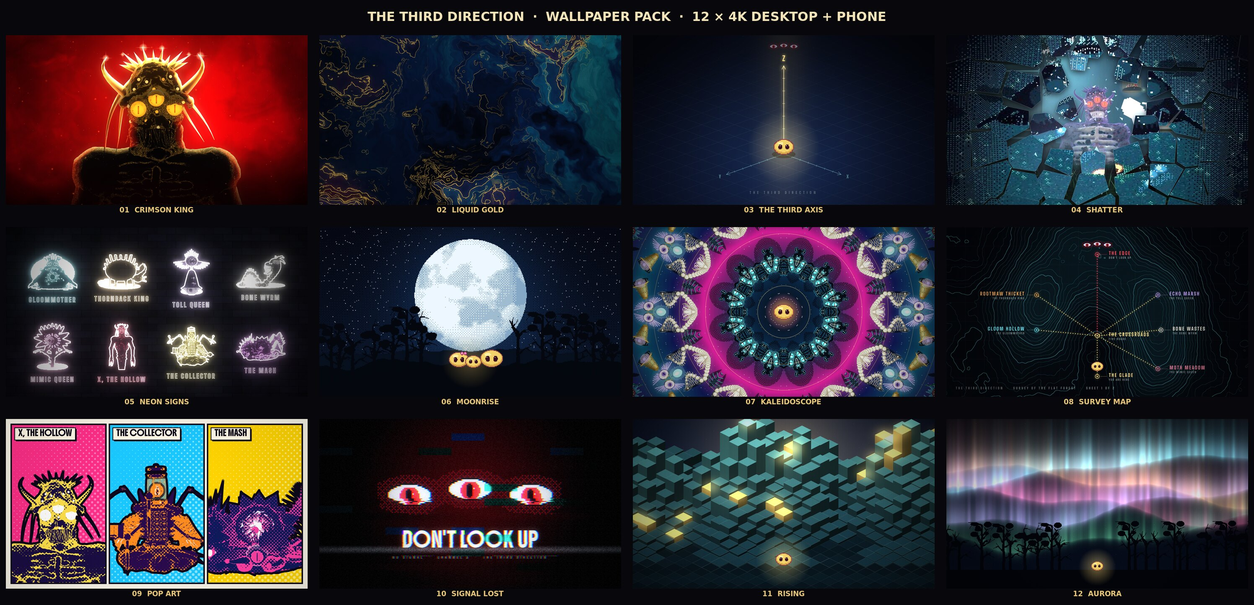
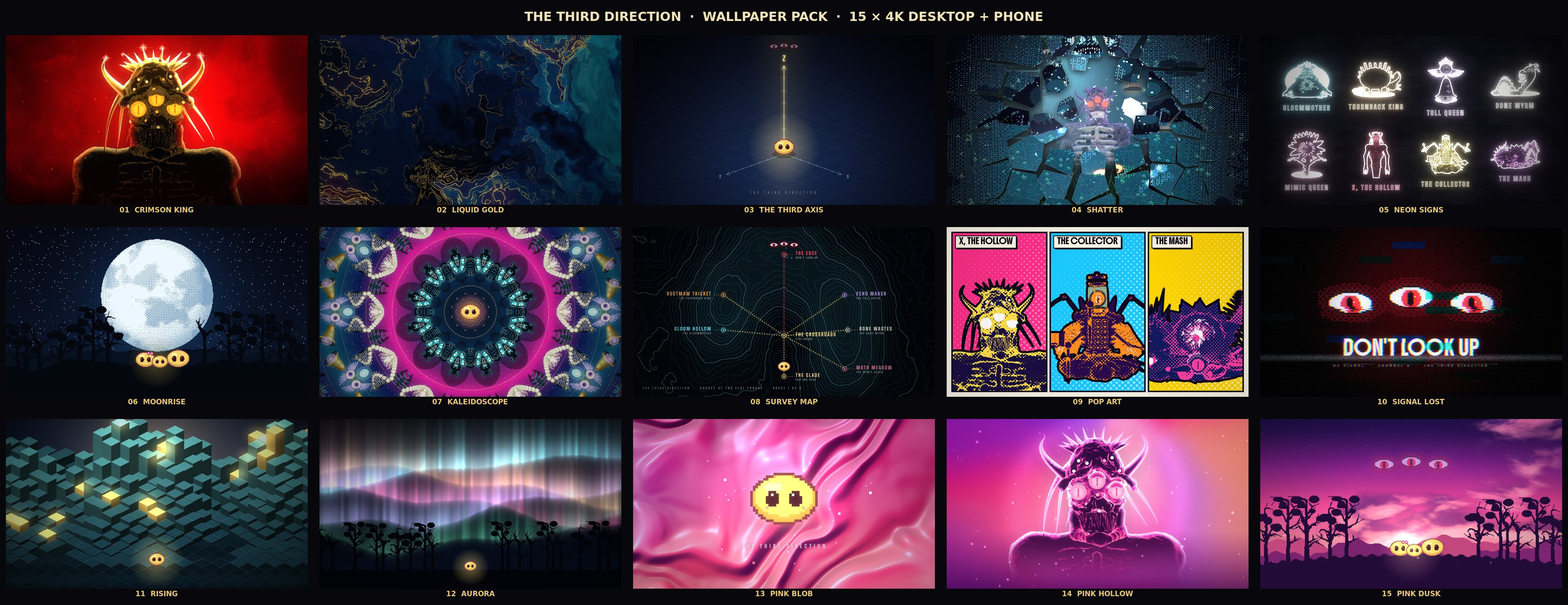
Wallpaper pack: the three pink ones join it (15), with desktop versions
Pink Blob, Pink Hollow and Pink Dusk are now 13-15 in the pack, at 3840 x 2160
for a desktop (X is laid out as a head-and-shoulders bust there) and 2160 x 3840
for a phone, as they were asked for. The --extras path is gone; the contact
sheet shows all fifteen.

Claude-Session: https://claude.ai/code/session_01G5SrvjJ6zxuC8y4vzgNUUM

diff --git a/the-third-direction/tools/brand/wallpapers.html b/the-third-direction/tools/brand/wallpapers.html
@@ -1267,13 +1267,13 @@ WP['aurora'] = async (W, H) => {
   return c;
 };
 
-/* ------------------------------------------------------------------------------------------------ extras: pink */
+/* ------------------------------------------------------------------------------------------------ 13-15 in pink */
 /**
- * Not in the pack: wallpapers made on request (`node tools/brand/wallpapers.mjs --extras`, a 4K phone: 2160 x 3840). Three in
- * pink, the colours running into each other: each is a backdrop (BG: satin, an aura, a sky at dusk) and someone from the game.
+ * Three in pink, the colours running into each other: each is a backdrop (BG: satin, an aura, a sky at dusk) and someone from
+ * the game in front of it. They were asked for at 4K on a phone, so their phone size is 2160 x 3840 (PHONE_4K).
  */
-const XP = {};
 const BG = {};
+const PHONE_4K = ['pink-blob', 'pink-hollow', 'pink-dusk'];
 /** smoother noise than the kit's (its slopes are lit here, so the joins of the lattice must not show), and a dither */
 const SOFT = `
 uniform float S;
@@ -1441,7 +1441,7 @@ function motes(x, W, H, n, seed, col, size, y0 = 0, y1 = 1) {
 }
 
 /** Blob on satin: the flat little hero, every pixel of him square, lying on folds of pink silk that are anything but flat */
-XP['pink-blob'] = async (W, H) => {
+WP['pink-blob'] = async (W, H) => {
   const c = await BG.silk(W, H);
   const x = c.getContext('2d');
   const u = Math.min(W, H) / 1080;
@@ -1501,15 +1501,17 @@ XP['pink-blob'] = async (W, H) => {
 };
 
 /** The Hollow in rose: X against the aura, plum in his shadows and pink where the light finds him, his three eyes white-hot */
-XP['pink-hollow'] = async (W, H) => {
+WP['pink-hollow'] = async (W, H) => {
   const c = await BG.aura(W, H);
   const x = c.getContext('2d');
   const u = Math.min(W, H) / 1080;
   const im = await spr('x-bust-4k');
-  const fw = W * 1.5;
-  const fh = fw / (im.width / im.height);
+  const tall = H > W;
+  // a phone: wider than the screen, his face in the middle; a desktop: his head and shoulders, the full height
+  const fh = tall ? (W * 1.5) / (im.width / im.height) : H * 1.02;
+  const fw = fh * (im.width / im.height);
   const fx = W / 2 - fw / 2;
-  const fy = H * 0.5 - fh * 0.34;
+  const fy = tall ? H * 0.5 - fh * 0.34 : H * 0.04;
   const fig = shade(fw, fh, SOFT + `
     uniform sampler2D T; uniform float U;
     void main(){
@@ -1564,7 +1566,7 @@ XP['pink-hollow'] = async (W, H) => {
 };
 
 /** Home before dark: the blob and his parents on their hill in the flat forest, the sky gone pink, and three eyes open in it */
-XP['pink-dusk'] = async (W, H) => {
+WP['pink-dusk'] = async (W, H) => {
   const c = await BG.dusk(W, H);
   const x = c.getContext('2d');
   const u = Math.min(W, H) / 1080;
@@ -1644,11 +1646,11 @@ XP['pink-dusk'] = async (W, H) => {
 
 /* ------------------------------------------------------------------------------------------------ */
 window.names = () => Object.keys(WP);
-window.extras = () => Object.keys(XP);
+window.phone4k = () => PHONE_4K;
 window.render = async (name, W, H) => {
   await document.fonts.load('700 40px "Big Shoulders"');
   await document.fonts.load('40px "Boldonse"');
-  const c = await (WP[name] ?? XP[name])(W, H);
+  const c = await WP[name](W, H);
   return c.toDataURL('image/jpeg', 0.93);
 };
 </script>

diff --git a/the-third-direction/docs/PUBLISHING.md b/the-third-direction/docs/PUBLISHING.md
@@ -87,20 +87,19 @@ and the fonts (Boldonse, Big Shoulders) are under the SIL Open Font License, so 
 
 ## The wallpaper pack (the download that asks for a tip)
 A browser game is never downloaded, so itch.io never shows its players the "$0 or donate" prompt. The wallpaper pack is the
-free download that does: twelve wallpapers, each for a 4K desktop (3840 x 2160) and a phone (1440 x 3120).
+free download that does: fifteen wallpapers, each for a 4K desktop (3840 x 2160) and a phone (1440 x 3120; the three pink ones
+2160 x 3840).
 ```bash
 npm run gallery && node tools/brand/sprites.mjs x-4k x-bust-4k collector-4k mash-4k   # once: the 3D bosses, large
 node tools/brand/wallpapers.mjs                # brand/wallpapers/desktop, brand/wallpapers/phone, the-third-direction-wallpapers.zip
 node tools/brand/wallpapers.mjs aurora --preview   # one of them, at a quarter of the size, to look at a change
 ```
 All of it is drawn by `tools/brand/wallpapers.html` (WebGL shaders and a 2D canvas, from the game's own sprites); a sheet of all
-twelve is `brand/wallpapers/contact.jpg`. Crimson King (X in black and gold on a red void), Liquid Gold (abstract ink and gold
+fifteen is `brand/wallpapers/contact.jpg`. Crimson King (X in black and gold on a red void), Liquid Gold (abstract ink and gold
 veins), The Third Axis (minimal: the mark), Shatter (the flat world as breaking glass), Neon Signs (all eight bosses), Moonrise
 (pixel art), Kaleidoscope (a mandala of the guardians), Survey Map (the forest as a contour chart), Pop Art (halftone prints),
-Signal Lost (glitch), Rising (isometric columns), Aurora (five curtains of light).
-
-Three more are not in the pack (made on request, in pink: the blob on satin, X in a rose aura, the family on their hill at dusk). `node tools/brand/wallpapers.mjs
---extras` draws them into `brand/wallpapers/extras` for a 4K phone (2160 x 3840).
+Signal Lost (glitch), Rising (isometric columns), Aurora (five curtains of light), and three in pink: Pink Blob (the blob on
+satin), Pink Hollow (X in a rose aura), Pink Dusk (the family on their hill at sunset, X's eyes in the sky).
 
 **On itch.io:** Edit game → Uploads → add `the-third-direction-wallpapers.zip` (do not tick "played in the browser"; name it
 "Wallpaper pack (4K + phone)"). The page then shows a Download button, and the donation prompt with it.
